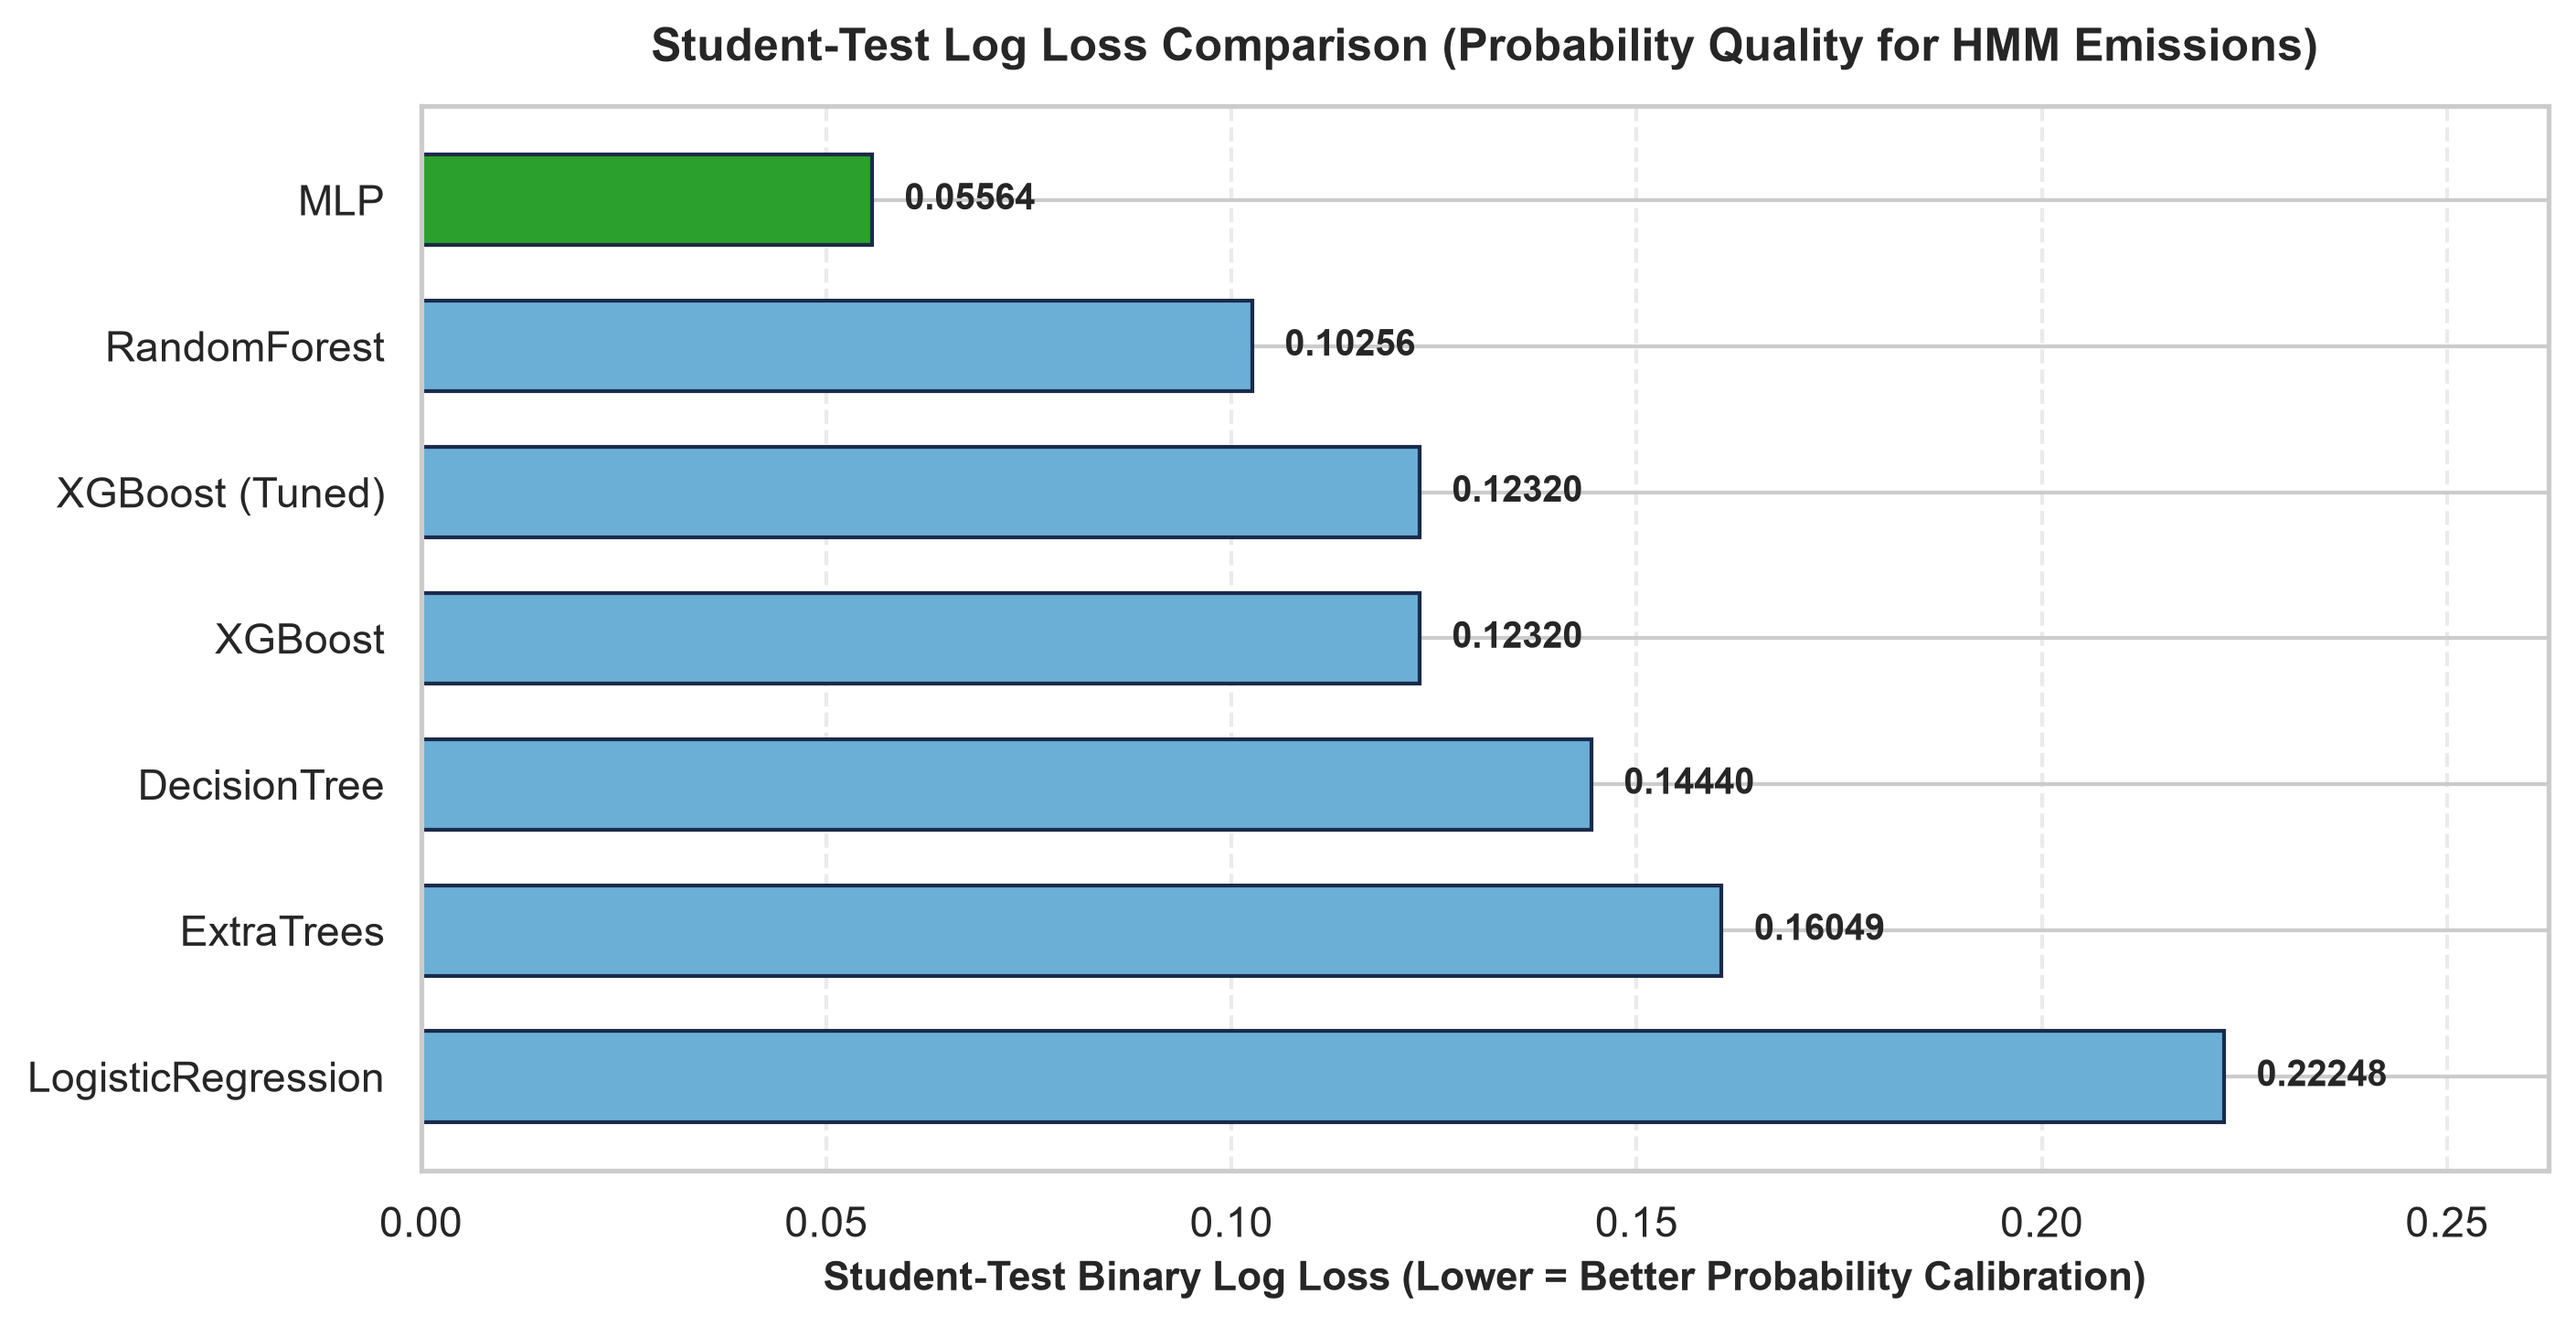
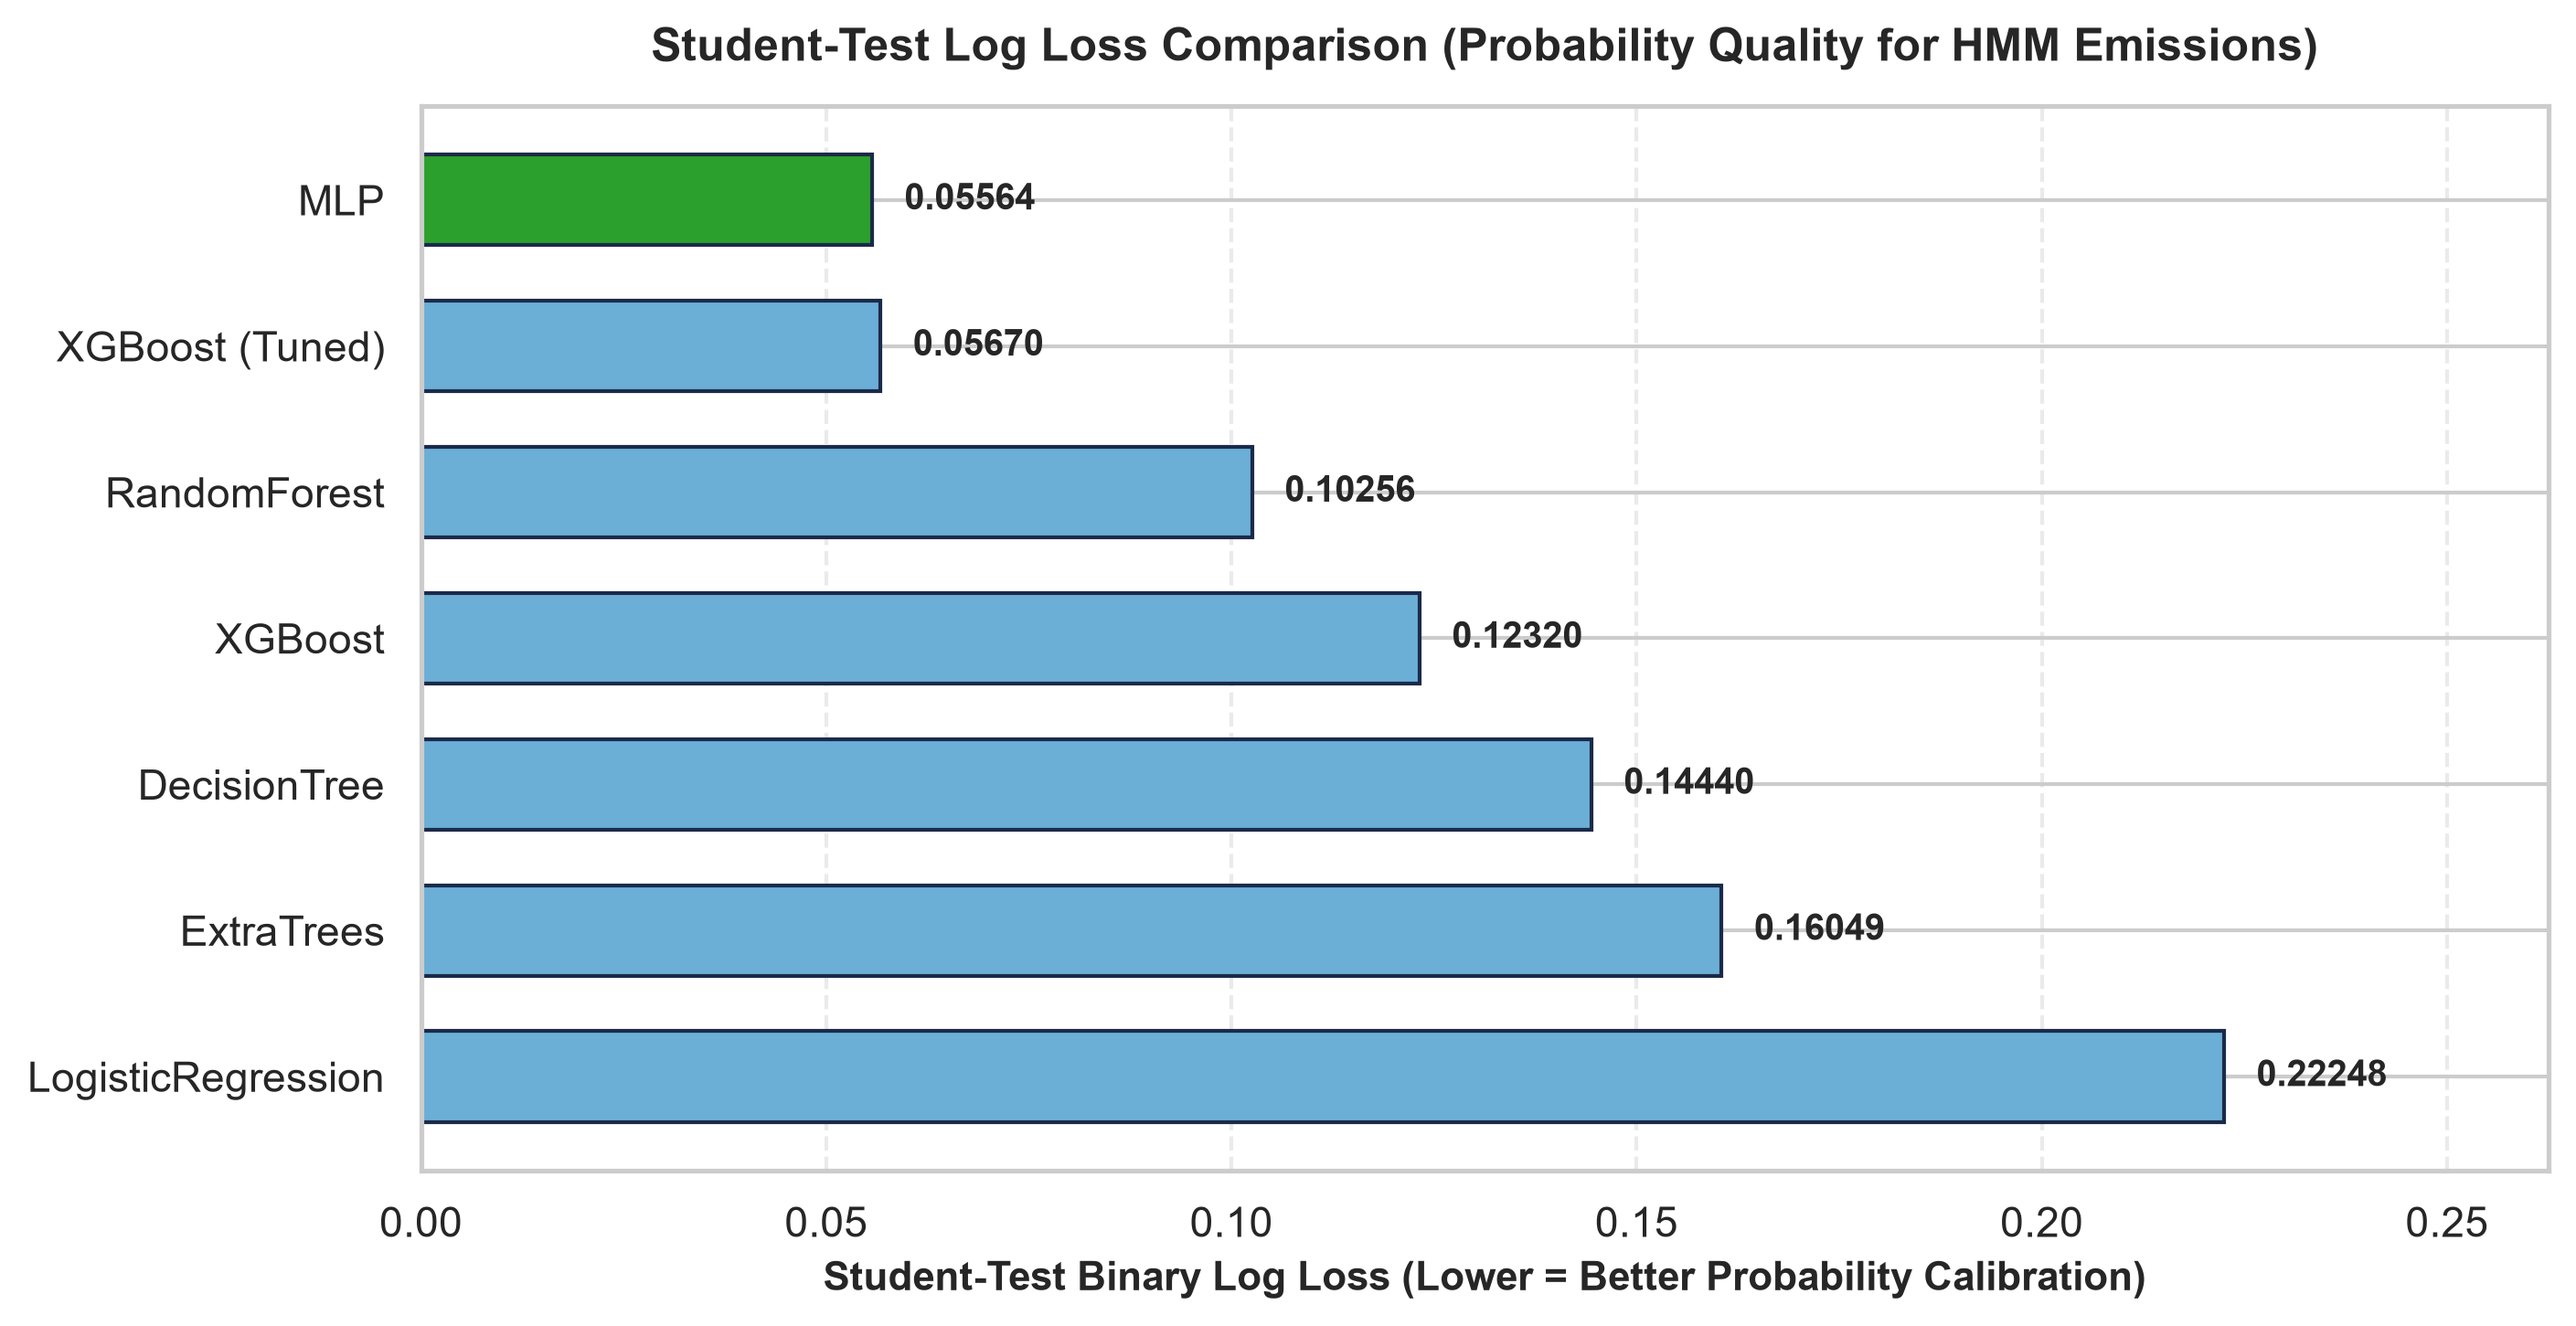
fix(report,plots): fix XGBoost Tuned plot filter bug, table overflow, black code blocks, remove sec 8

diff --git a/scripts/compile_report.py b/scripts/compile_report.py
@@ -22,6 +22,7 @@ REPORT_MD = r"""# PATHSNAP: DISTRIBUTED MAP-MATCHING & ROUTE RECONSTRUCTION
 ## Consolidated Technical Report (Deliverable 2)
 
 **Course:** UE24CS352A Machine Learning — PES University, CSE (RR Campus)  
+**Team 3:** Devopam Pal (`PES2UG24CS152`), Deepthi N Reddy (`PES2UG24CS149`), Dwijesh Krishna Ghattamaraju (`PES2UG24CS163`), Hanumantha L (`PES2UG24CS179`)  
 **Deliverable:** Consolidated Technical Report (PDF)  
 **Public GitHub Repository:** https://github.com/DEV-2828/ML_HACKATHON  
 **Global Random Seed:** `42`
@@ -99,14 +100,14 @@ We trained and compared **six distinct models spanning five algorithm families**
 
 ### 3.1 Overall Model Comparison (`results/metrics/model_comparison.csv`)
 
-| Model | Algorithm Family | Key Configuration | CV Macro F1-score (± Std) | Top-1 Accuracy (Overall / Covered) | Route Continuity | Student-Test Macro F1-score | Precision / Recall | Log Loss | Inference Time (10 Trips / Per Trip) |
-| :--- | :--- | :--- | ---: | ---: | ---: | ---: | ---: | ---: | ---: |
-| **MLP** | Neural Network | `hidden=(64,32), relu, adam, alpha=1e-3, lr=1e-3, batch=2048, 15 ep, Scaled` | **0.8857 ± 0.0093** | 0.8223 / 0.8330 | **0.9196** | **0.8966** | 0.8202 / 0.7895 | **0.0556** | 0.1024 s (10.24 ms) |
-| **RandomForest** | Ensemble (Bagging) | `n_est=100, depth=16, min_leaf=10, max_samp=0.4, balanced_subsample` | 0.8471 ± 0.0122 | 0.8225 / 0.8332 | 0.9122 | 0.8534 | 0.5948 / 0.9369 | 0.1026 | 0.2246 s (22.46 ms) |
-| **XGBoost** | Boosting | `n_est=200, depth=6, lr=0.1, sub=0.8, col=0.8, hist, spw≈14.2` | 0.8270 ± 0.0126 | **0.8260 / 0.8368** | 0.9171 | 0.8327 | 0.5412 / 0.9553 | 0.1232 | 0.0581 s (5.81 ms) |
-| **DecisionTree** | Tree-based | `gini, depth=12, min_leaf=20, class_weight=balanced` | 0.8184 ± 0.0120 | 0.8032 / 0.8137 | 0.8951 | 0.8247 | 0.5252 / 0.9514 | 0.1444 | **0.0352 s (3.52 ms)** |
-| **ExtraTrees** | Ensemble (Randomized) | `n_est=100, depth=18, min_leaf=10, bootstrap=True, max_samp=0.4` | 0.8142 ± 0.0121 | 0.8148 / 0.8254 | 0.9097 | 0.8170 | 0.5080 / 0.9553 | 0.1605 | 0.2280 s (22.80 ms) |
-| **LogisticRegression** | Linear / Probabilistic | `C=1.0, lbfgs, max_iter=1000, balanced, StandardScaler` | 0.7161 ± 0.0146 | 0.7450 / 0.7547 | 0.8684 | 0.7104 | 0.3232 / **0.9731** | 0.2225 | 0.0366 s (3.66 ms) |
+| Model | Algorithm Family | Key Configuration | CV Macro F1 (± Std) | Top-1 Acc (All / Cov) | Route Cont. | Test Macro F1 | Log Loss | Inference Time (Per Trip) |
+| :--- | :--- | :--- | ---: | ---: | ---: | ---: | ---: | ---: |
+| **MLP** | Neural Network | `layers=(64,32), relu, adam, alpha=1e-3, lr=1e-3, batch=2048, 15 ep, Scaled` | **0.8857 ± 0.0093** | 0.8223 / 0.8330 | **0.9196** | **0.8966** | **0.0556** | 0.1024 s (10.24 ms) |
+| **RandomForest** | Ensemble (Bagging) | `n_est=100, depth=16, min_leaf=10, max_samp=0.4, balanced_sub` | 0.8471 ± 0.0122 | 0.8225 / 0.8332 | 0.9122 | 0.8534 | 0.1026 | 0.2246 s (22.46 ms) |
+| **XGBoost** | Boosting | `n_est=200, depth=6, lr=0.1, sub=0.8, col=0.8, hist, spw≈14.2` | 0.8270 ± 0.0126 | **0.8260 / 0.8368** | 0.9171 | 0.8327 | 0.1232 | 0.0581 s (5.81 ms) |
+| **DecisionTree** | Tree-based | `gini, depth=12, min_leaf=20, balanced` | 0.8184 ± 0.0120 | 0.8032 / 0.8137 | 0.8951 | 0.8247 | 0.1444 | **0.0352 s (3.52 ms)** |
+| **ExtraTrees** | Ensemble (Rand.) | `n_est=100, depth=18, min_leaf=10, boot=True, max_samp=0.4` | 0.8142 ± 0.0121 | 0.8148 / 0.8254 | 0.9097 | 0.8170 | 0.1605 | 0.2280 s (22.80 ms) |
+| **LogisticReg** | Linear / Prob. | `C=1.0, lbfgs, max_iter=1000, balanced, Scaled` | 0.7161 ± 0.0146 | 0.7450 / 0.7547 | 0.8684 | 0.7104 | 0.2225 | 0.0366 s (3.66 ms) |
 
 ### 3.2 Compulsory Analysis for EVERY Model
 
@@ -251,27 +252,15 @@ Each interactive HTML map includes **five distinguishable colour-coded layers**,
 ## 7. API, UI and Deployment
 
 ### Two-Laptop Distributed Architecture
-- **Laptop 1 — Production FastAPI Server (`backend/api.py`):** Loads `artifacts/final_model.joblib`, `artifacts/model_metadata.json`, and `artifacts/hmm_config.json` once on startup. Exposes `GET /health`, `GET /trips`, and `POST /predict` (alias `/evaluate`). On each request, `src/inference_pipeline.py` extracts candidate segments & 12 UTM features from `.track`/`.nodes`/`.arcs` ONLY, scores them with Bayesian-tuned XGBoost, decodes via `HMMRouteDecoder`, computes accuracy strictly server-side using internal `.route` (never exposed to the model or UI), and prints live timestamped telemetry to CMD.
-  ```powershell
-  .\.venv\Scripts\python -m uvicorn backend.api:app --host 0.0.0.0 --port 8000
-  ```
-- **Laptop 2 — Evaluator UI (`ui/app.py`):** Streamlit + Folium dashboard connecting over LAN/hotspot (`http://<LAPTOP_1_IP>:8000`). Lists all 10 reserved evaluation trips dynamically from `/trips`, dispatches the evaluator's chosen `trip_id` to Laptop 1, and renders live KPI cards, Classifier vs HMM comparison table, system details, and interactive multi-layer Leaflet map.
-  ```powershell
-  .\.venv\Scripts\python -m streamlit run ui/app.py
-  ```
+- **Laptop 1 — Production FastAPI Server (`backend/api.py`):** Loads `artifacts/final_model.joblib`, `artifacts/model_metadata.json`, and `artifacts/hmm_config.json` once on startup. Exposes `GET /health`, `GET /trips`, and `POST /predict` (alias `/evaluate`). On each request, `src/inference_pipeline.py` extracts candidate segments & 12 UTM features from `.track`/`.nodes`/`.arcs` ONLY, scores them with Bayesian-tuned XGBoost, decodes via `HMMRouteDecoder`, computes accuracy strictly server-side using internal `.route` (never exposed to the model or UI), and prints live timestamped telemetry to CMD.  
+  **Launch Command:** `.\.venv\Scripts\python -m uvicorn backend.api:app --host 0.0.0.0 --port 8000`
+- **Laptop 2 — Evaluator UI (`ui/app.py`):** Streamlit + Folium dashboard connecting over LAN/hotspot (`http://<LAPTOP_1_IP>:8000`). Lists all 10 reserved evaluation trips dynamically from `/trips`, dispatches the evaluator's chosen `trip_id` to Laptop 1, and renders live KPI cards, Classifier vs HMM comparison table, system details, and interactive multi-layer Leaflet map.  
+  **Launch Command:** `.\.venv\Scripts\python -m streamlit run ui/app.py`
 - **Automated Verification (`backend/test_api.py`):** Verified 10/10 trips passing live HTTP end-to-end (`108 ms – 2,095 ms` per trip).
 
 ![Working Evaluator UI (Streamlit + Interactive Folium Route Reconstruction Map)](PLOT/ui_demo_screenshot.jpg)
 
 ![Laptop 1 Production FastAPI Server CMD Log (Uvicorn on 0.0.0.0:8000, Model & 10 Evaluation Trips Loaded)](PLOT/cmd_api_screenshot.png)
-
----
-
-## 8. Academic Integrity and Reproducibility Statement
-
-1. All data exploration, feature engineering, 6-model experimentation, 30-trial Bayesian hyperparameter optimisation, HMM/Viterbi decoding, FastAPI backend, and Streamlit UI were independently developed and verified by this team.
-2. Every metric, confusion matrix, learning curve, and comparison table in this PDF matches the committed CSV/JSON outputs in `data_geo/outputs/`, `results/metrics/`, `PLOT/`, and `artifacts/` in our public GitHub repository: https://github.com/DEV-2828/ML_HACKATHON.
-3. `evaluator_test` was never used for training, feature selection, model choice, hyperparameter optimisation, or HMM tuning, and reference `.route` labels remain strictly server-side on Laptop 1.
 """
 
 
@@ -299,22 +288,22 @@ def _prepare_compact_images(md_text: str, tmp_dir: Path, max_width: int = 1400) 
 SIMPLE_CSS = """
 body {
     font-family: Arial, sans-serif;
-    font-size: 10pt;
-    line-height: 1.5;
-    color: #111;
+    font-size: 9.5pt;
+    line-height: 1.48;
+    color: #111111;
 }
-h1 { font-size: 16pt; margin-bottom: 6px; }
-h2 { font-size: 13pt; margin-top: 18px; margin-bottom: 4px; border-bottom: 1px solid #aaa; padding-bottom: 2px; }
-h3 { font-size: 11pt; margin-top: 12px; margin-bottom: 3px; }
-h4 { font-size: 10pt; margin-top: 8px; margin-bottom: 2px; }
-table { border-collapse: collapse; width: 100%; font-size: 8.5pt; margin: 8px 0 12px 0; }
-th { background-color: #e8e8e8; font-weight: bold; padding: 4px 6px; border: 1px solid #bbb; text-align: left; }
-td { padding: 3px 6px; border: 1px solid #ccc; vertical-align: top; }
+h1 { font-size: 15pt; margin-bottom: 6px; color: #111111; }
+h2 { font-size: 12.5pt; margin-top: 16px; margin-bottom: 4px; border-bottom: 1px solid #999999; padding-bottom: 2px; color: #111111; }
+h3 { font-size: 10.5pt; margin-top: 12px; margin-bottom: 3px; color: #111111; }
+h4 { font-size: 9.5pt; margin-top: 8px; margin-bottom: 2px; color: #111111; }
+table { border-collapse: collapse; width: 100%; font-size: 7.5pt; margin: 8px 0 12px 0; }
+th { background-color: #e8e8e8; color: #111111; font-weight: bold; padding: 4px 4px; border: 1px solid #aaaaaa; text-align: left; }
+td { padding: 3px 4px; border: 1px solid #cccccc; vertical-align: top; color: #111111; }
 tr:nth-child(even) td { background-color: #f7f7f7; }
-code { font-family: "Courier New", monospace; font-size: 8.5pt; background: #f0f0f0; padding: 1px 3px; }
-pre { background: #f4f4f4; padding: 8px 12px; font-size: 8pt; border-left: 3px solid #888; white-space: pre-wrap; word-break: break-all; }
-pre code { background: none; padding: 0; }
-hr { border: none; border-top: 1px solid #ccc; margin: 14px 0; }
+code { font-family: "Courier New", monospace; font-size: 8pt; background-color: #f0f0f0; color: #111111; padding: 1px 3px; }
+pre { background-color: #f4f4f4; color: #111111; padding: 8px 10px; font-size: 8pt; border-left: 3px solid #888888; }
+pre code { background-color: #f4f4f4; color: #111111; padding: 0; }
+hr { border-top: 1px solid #cccccc; margin: 12px 0; }
 img { display: block; max-width: 100%; margin: 8px auto; }
 ul, ol { margin: 4px 0 6px 0; padding-left: 18px; }
 li { margin-bottom: 2px; }

diff --git a/src/modeling/plot_report_figures.py b/src/modeling/plot_report_figures.py
@@ -38,8 +38,10 @@ def _load_combined_models(m_dir: Path) -> pd.DataFrame:
     uvt_path = m_dir / "untuned_vs_tuned.csv"
     if uvt_path.exists():
         uvt = pd.read_csv(uvt_path)
-        tuned = uvt[uvt["Version"].str.contains("Tuned", case=False, na=False)]
-        tuned = tuned[~tuned["Version"].str.contains("Delta", case=False, na=False)]
+        tuned = uvt[
+            uvt["Version"].str.contains("Tuned", case=False, na=False)
+            & ~uvt["Version"].str.contains("Untuned|Delta", case=False, na=False)
+        ]
         if not tuned.empty:
             r = tuned.iloc[0]
             tuned_row = pd.DataFrame(
@@ -334,8 +336,10 @@ def plot_tuned_confusion_matrix(m_dir: Path, out_dir: Path) -> Path | None:
     uvt_p = m_dir / "untuned_vs_tuned.csv"
     if uvt_p.exists():
         uvt = pd.read_csv(uvt_p)
-        t = uvt[uvt["Version"].str.contains("Tuned", case=False, na=False)]
-        t = t[~t["Version"].str.contains("Delta", case=False, na=False)]
+        t = uvt[
+            uvt["Version"].str.contains("Tuned", case=False, na=False)
+            & ~uvt["Version"].str.contains("Untuned|Delta", case=False, na=False)
+        ]
         if not t.empty:
             r = t.iloc[0]
             subtitle = (
@@ -344,7 +348,7 @@ def plot_tuned_confusion_matrix(m_dir: Path, out_dir: Path) -> Path | None:
                 f"LogLoss={r['Log Loss']:.5f}"
             )
 
-    fig, ax = plt.subplots(figsize=(6.2, 5.2))
+    fig, ax = plt.subplots(figsize=(6.8, 5.4))
     sns.heatmap(
         cm_norm,
         annot=annot,
@@ -364,7 +368,7 @@ def plot_tuned_confusion_matrix(m_dir: Path, out_dir: Path) -> Path | None:
     ax.set_xlabel("Predicted Label", fontsize=10, fontweight="bold")
     ax.set_ylabel("True Reference Label", fontsize=10, fontweight="bold")
     ax.tick_params(axis="y", rotation=0)
-    ax.set_title(f"XGBoost (Bayesian Tuned) — Student-Test Confusion Matrix{subtitle}", fontsize=10.5, fontweight="bold", pad=10)
+    ax.set_title(f"XGBoost (Bayesian Tuned) — Student-Test CM{subtitle}", fontsize=10.0, fontweight="bold", pad=10)
     fig.tight_layout()
     return _save(fig, out_dir / "cm_XGBoost_tuned.png")
 

diff --git a/README.md b/README.md
@@ -154,7 +154,7 @@ You have two deployment options:
   "details": {
     "nodes_count": 8542,
     "arcs_count": 18196,
-    "decoder": "Viterbi (Gaussian Distance Emission & Topological Transition)"
+    "decoder": "Log-Space HMM + Viterbi (Classifier Emissions + Bounded Dijkstra Road Transitions)"
   }
 }
 ```
